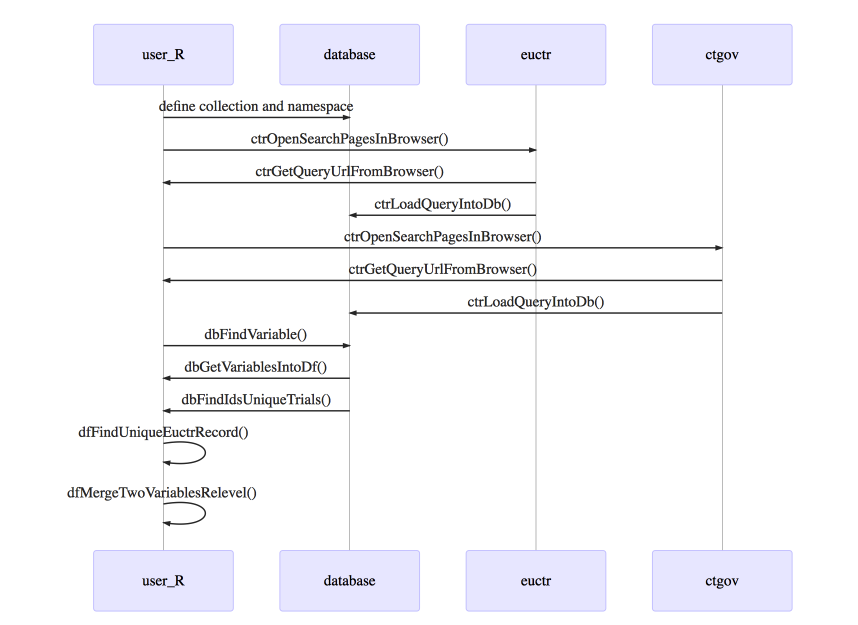
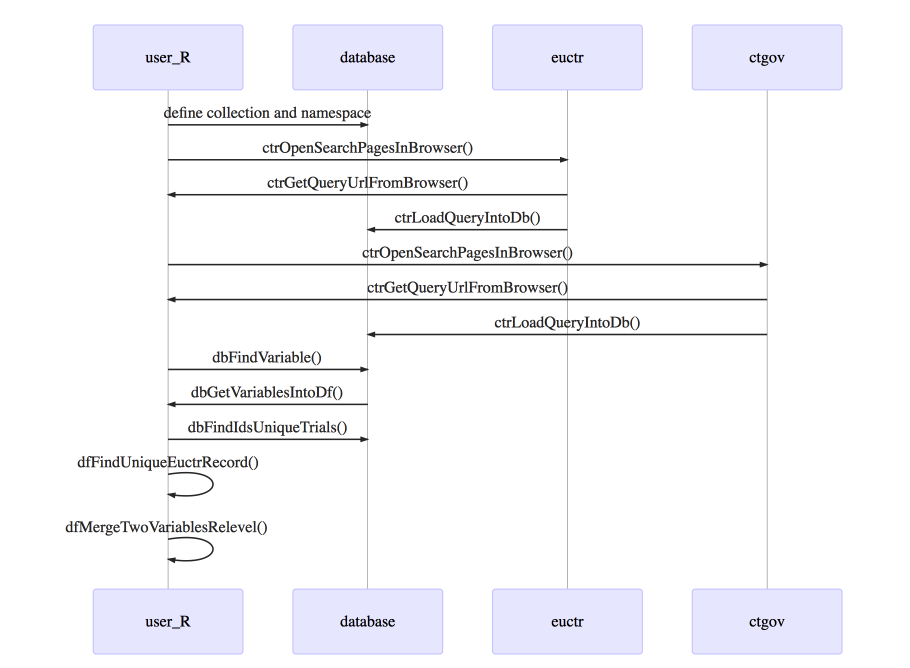
fine tuning sequence diagram

diff --git a/README.md b/README.md
@@ -101,7 +101,7 @@ sequenceDiagram
   
   user_R->>database: dbFindVariable()
   database->>user_R: dbGetVariablesIntoDf()
-  database->>user_R: dbFindIdsUniqueTrials()
+  user_R->>database: dbFindIdsUniqueTrials()
 
   user_R->>user_R: dfFindUniqueEuctrRecord()
   user_R->>user_R: dfMergeTwoVariablesRelevel()
